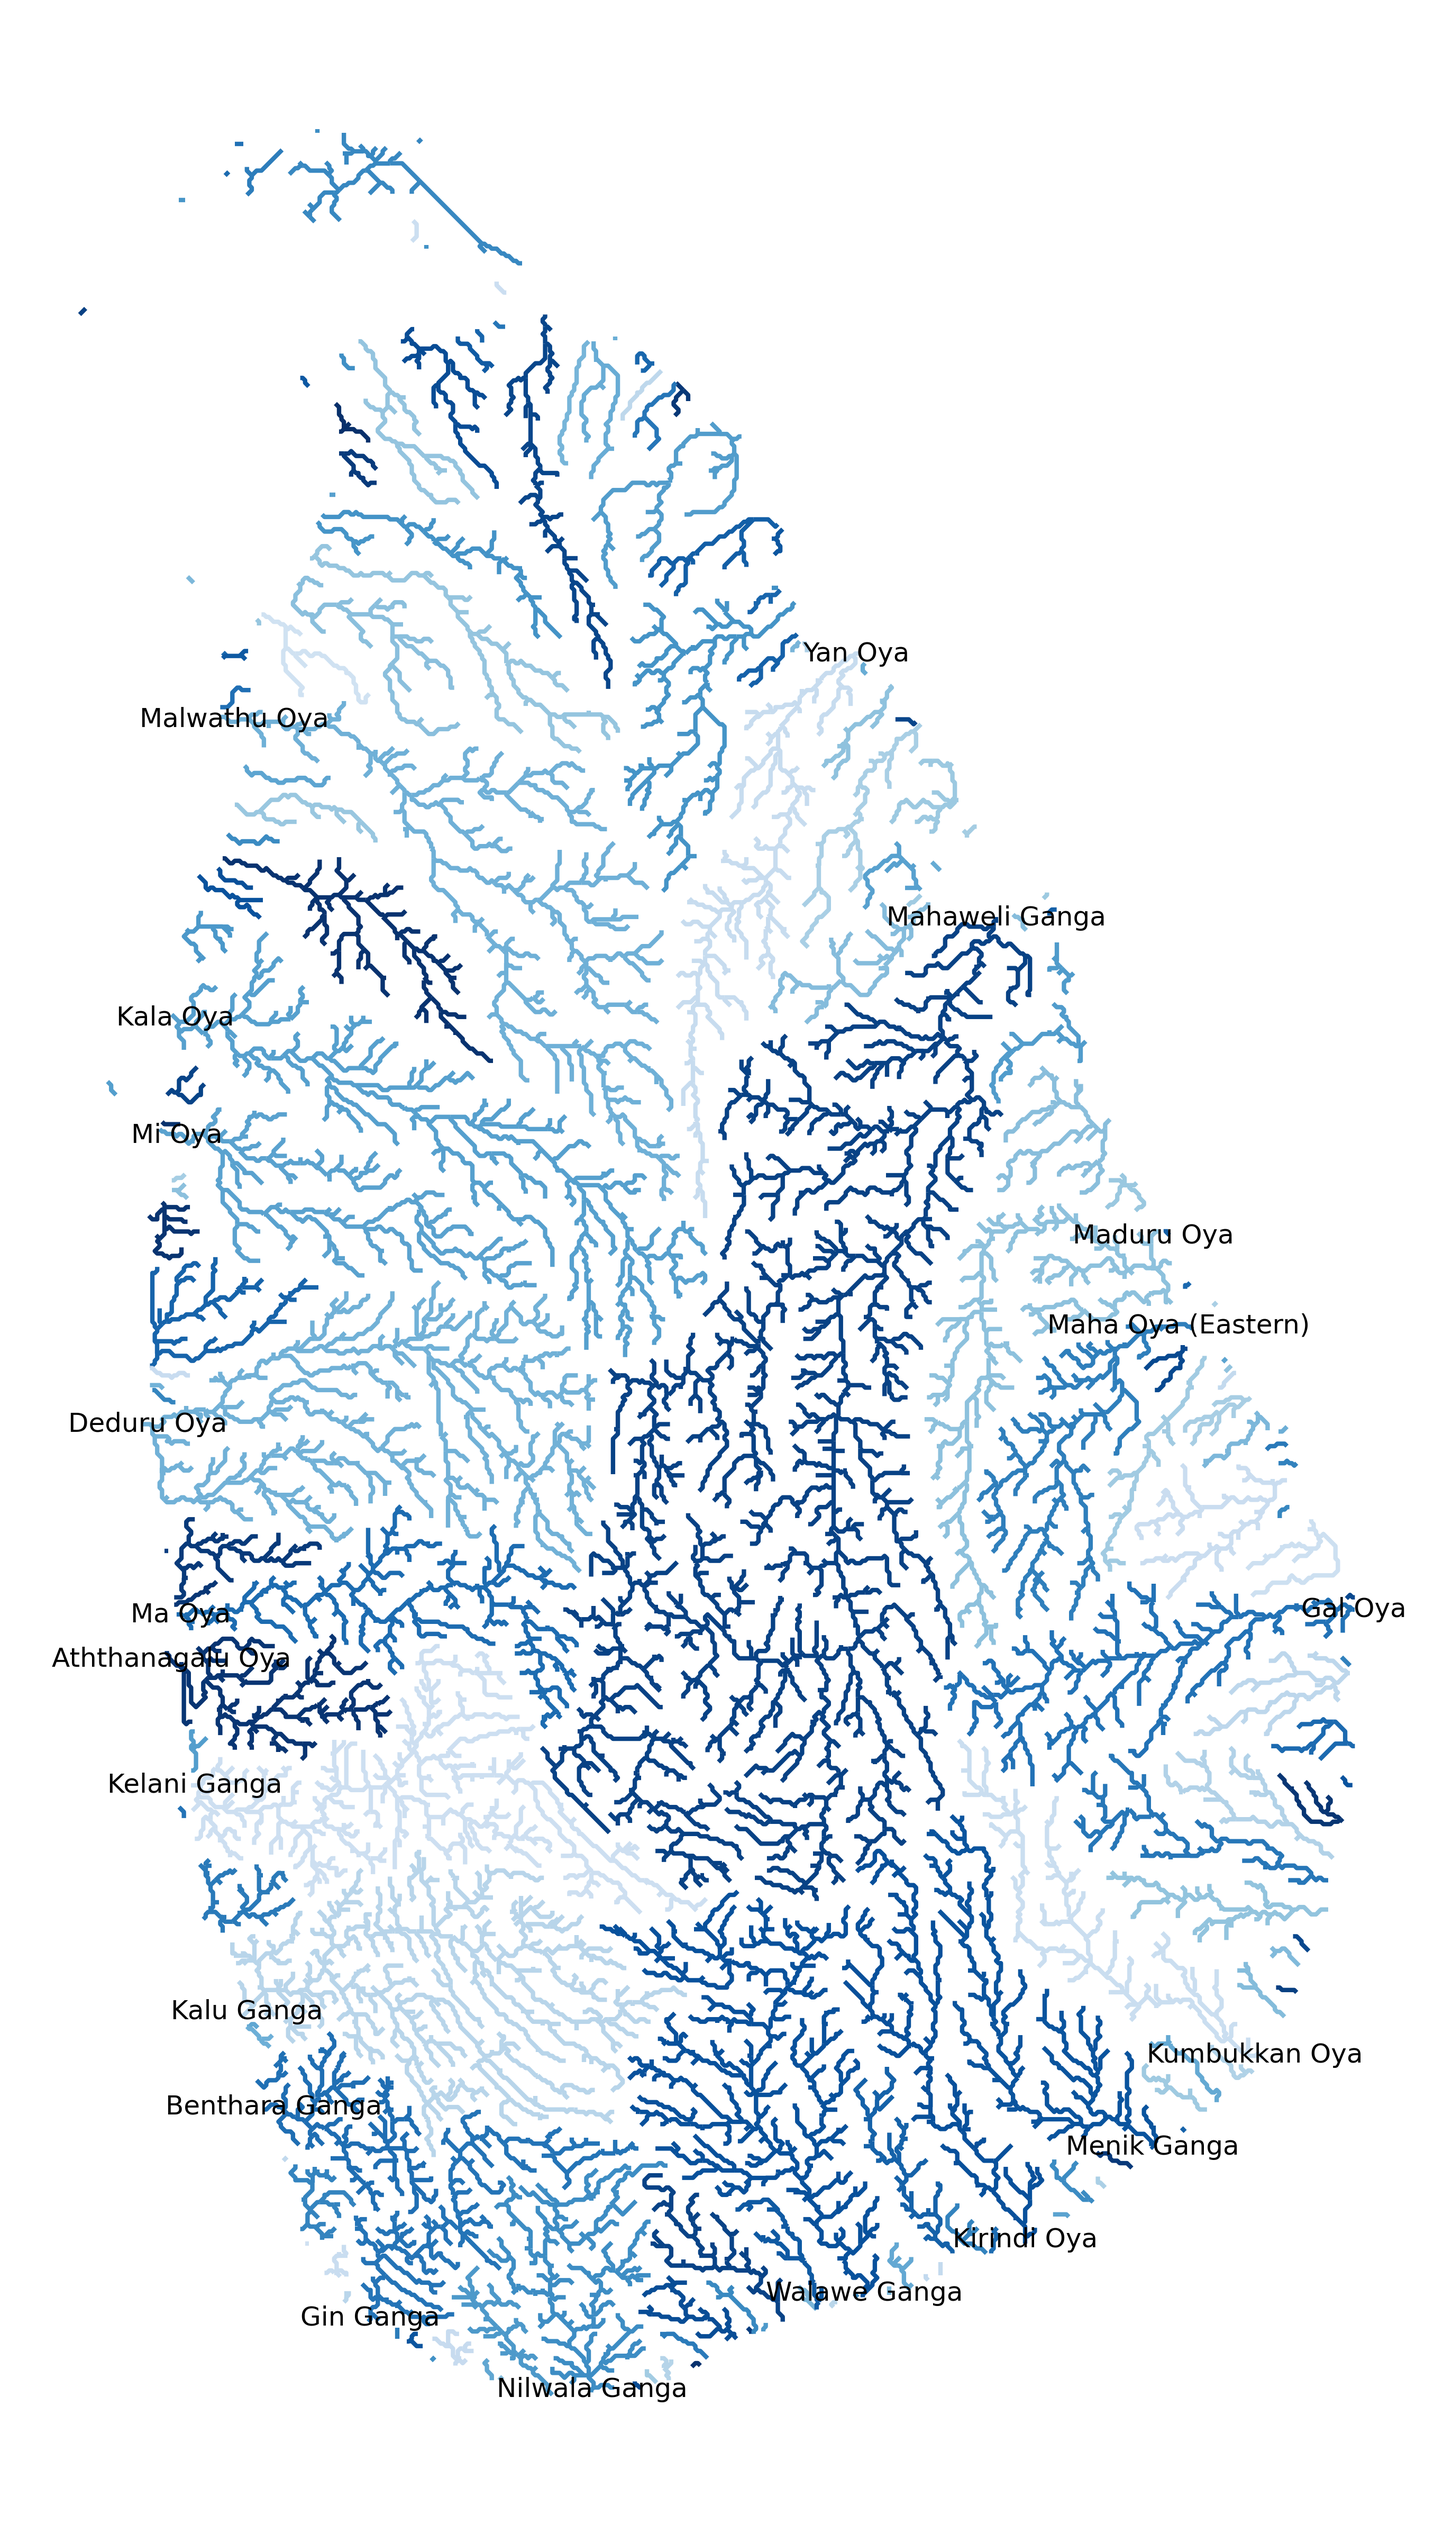
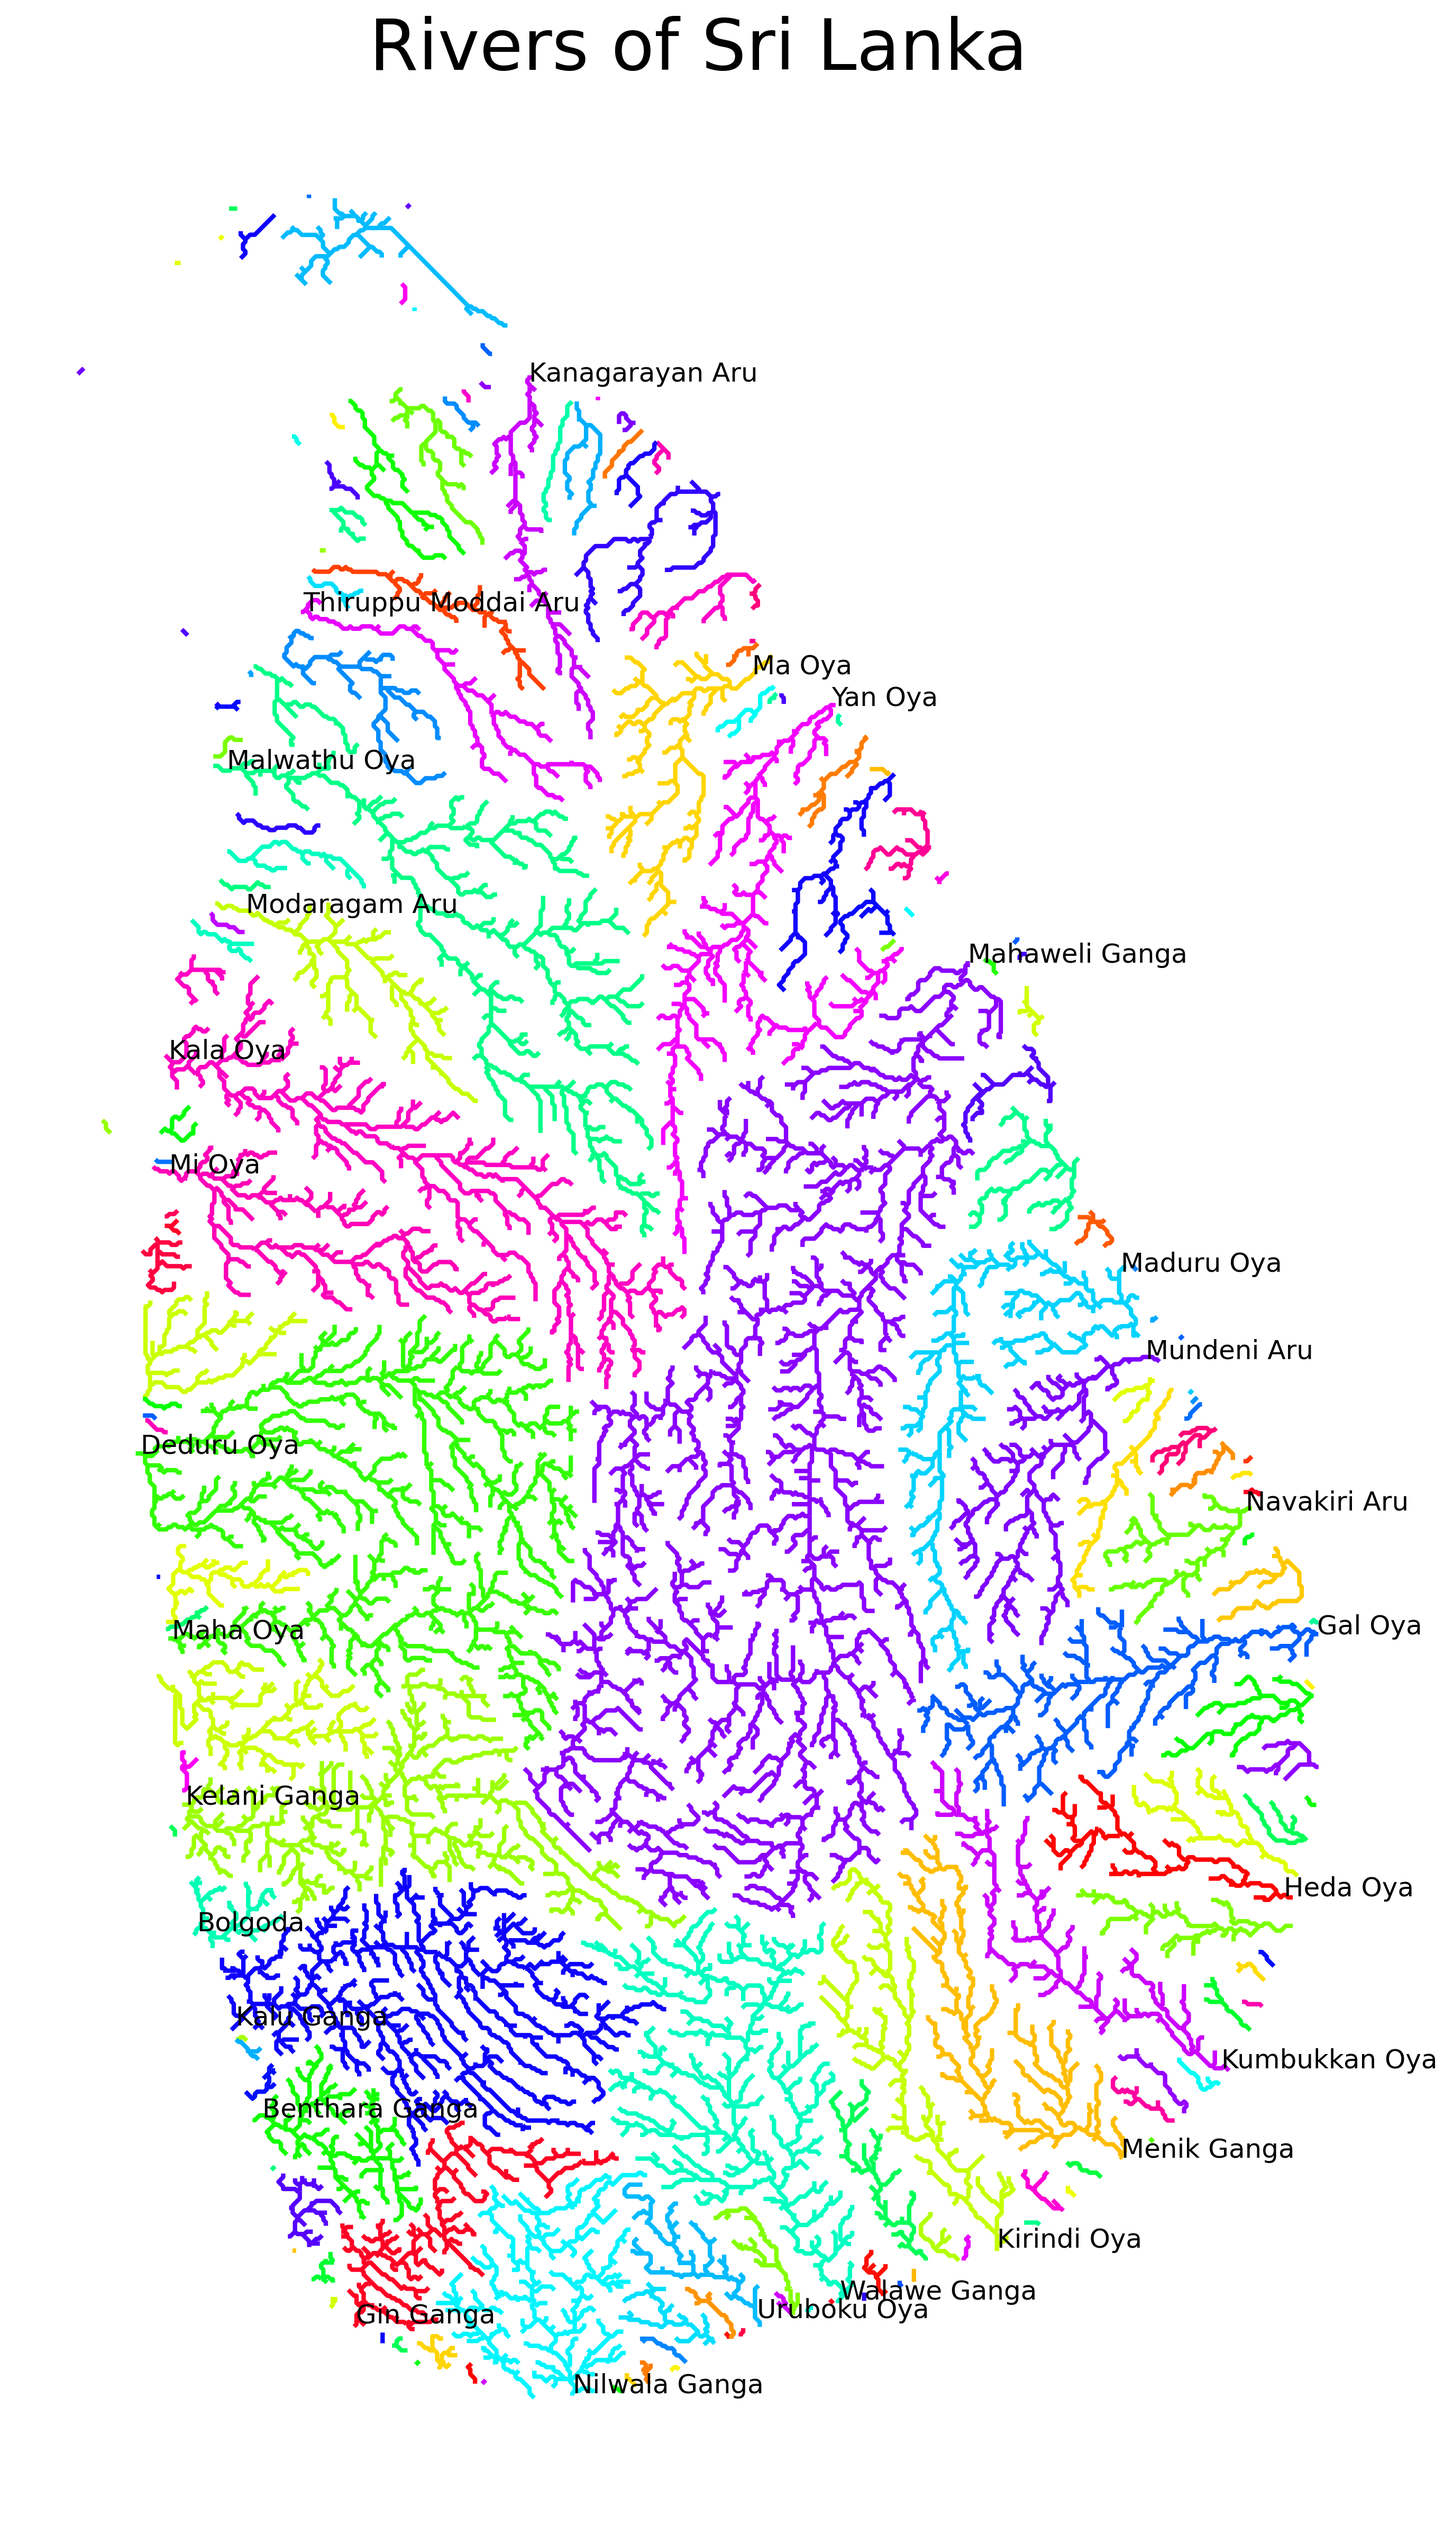
Adjust river filtering range and enhance rendering with color mapping and title

Changed region(s): [[0.093, 0.0625, 0.9915, 0.9685], [0.4338, 0.0, 0.7127, 0.0312], [0.2479, 0.0, 0.4028, 0.0312]]

diff --git a/workflows/render_rivers.py b/workflows/render_rivers.py
@@ -51,7 +51,7 @@ def filter_sri_lanka(gdf):
     lon_min, lon_max = 79.5, 82.0
     lat_min, lat_max = 5.9, 10.0
 
-    print(f"Filtering for Sri Lanka region...")
+    print("Filtering for Sri Lanka region...")  # Fixed f-string issue
 
     # Filter by bounding box
     mask = (
@@ -69,9 +69,10 @@ def filter_sri_lanka(gdf):
 
 def render_rivers(gdf, output_path=None):
     """
-    Render the rivers on a map using randomly distributed shades of blue for
-    each MAIN_RIV and annotate with river names from riv_id_to_name.json (if
-    available) at the mouth of the river (identified by NEXT_DOWN = 0).
+    Render the rivers on a map using colors proportional to their lengths,
+    highlight the longest river in the darkest blue, and annotate with river
+    names from riv_id_to_name.json (if available) at the mouth of the river
+    (identified by NEXT_DOWN = 0).
     """
     print("Rendering rivers...")
     print("GeoDataFrame columns:", gdf.columns.tolist())
@@ -85,55 +86,56 @@ def render_rivers(gdf, output_path=None):
     with open(riv_id_to_name_path, "r", encoding="utf-8") as f:
         riv_id_to_name = json.load(f)
 
-    fig, ax = plt.subplots(figsize=(12, 16))
+    fig, ax = plt.subplots(figsize=(16, 16))
 
-    # Assign a random shade of blue to each MAIN_RIV
-    if "MAIN_RIV" in gdf.columns:
-        unique_rivers = gdf["MAIN_RIV"].unique()
-        shades_of_blue = [plt.cm.Blues(i / 256) for i in range(50, 256)]
-        random.shuffle(shades_of_blue)
-        color_map = {
-            river: shades_of_blue[i % len(shades_of_blue)]
-            for i, river in enumerate(unique_rivers)
-        }
-        gdf["color"] = gdf["MAIN_RIV"].map(color_map)
+    # Reproject to a projected CRS for accurate length calculations
+    if gdf.crs.is_geographic:
+        # Shortened the long print statement
+        print("Reprojecting to a projected CRS for accurate calculations...")
+        gdf = gdf.to_crs(epsg=32644)  # UTM Zone 44N, suitable for Sri Lanka
 
-        # Plot rivers with their randomly assigned shades of blue
-        for river, group in gdf.groupby("MAIN_RIV"):
-            group.plot(
-                ax=ax,
-                linewidth=2,
-                color=color_map[river],
-                alpha=1,
-                label=str(river),
-            )
+    # Assign random colors to each river using the 'hsv' colormap
+    unique_rivers = gdf["MAIN_RIV"].unique()
+    # Corrected colormap assignment and split into multiple lines for readability
+    color_map = {
+        river: plt.cm.get_cmap("hsv")(random.random())
+        for river in unique_rivers
+    }
+    gdf["color"] = gdf["MAIN_RIV"].map(color_map)
 
-            # Annotate the map with river names (if available) at the mouth
-            river_name = riv_id_to_name.get(str(river), None)
-            if river_name:
-                # Find the row where NEXT_DOWN = 0 (mouth of the river)
-                mouth_row = group[group["NEXT_DOWN"] == 0]
-                if not mouth_row.empty:
-                    mouth_row = mouth_row.iloc[0]
-                    if mouth_row.geometry.type == "LineString":
-                        x, y = mouth_row.geometry.coords[
-                            -1
-                        ]  # Mouth of the river
-                    else:
-                        x, y = mouth_row.geometry.centroid.xy
-                        x, y = x[0], y[0]
-                    ax.text(
-                        x,
-                        y,
-                        river_name,
-                        fontsize=12,
-                        color="black",
-                        va="center",
-                        ha="center",
-                    )
-    else:
-        # Default to a single color if MAIN_RIV is not available
-        gdf.plot(ax=ax, linewidth=0.5, edgecolor="blue", alpha=0.7)
+    # Sort rivers by the order of their appearance in the dataset
+    sorted_groups = gdf.groupby("MAIN_RIV")
+
+    # Plot rivers with their length-proportional colors
+    for river, group in sorted_groups:
+        group_color = group["color"].iloc[0]
+        group.plot(
+            ax=ax,
+            linewidth=2,
+            color=group_color,
+            alpha=1,
+            label=str(river),
+        )
+
+        # Annotate the map with river names (if available) at the mouth
+        river_name = riv_id_to_name.get(str(river), None)
+        if river_name:
+            # Find the row where NEXT_DOWN = 0 (mouth of the river)
+            mouth_row = group[group["NEXT_DOWN"] == 0]
+            if not mouth_row.empty:
+                mouth_row = mouth_row.iloc[0]
+                if mouth_row.geometry.type == "LineString":
+                    x, y = mouth_row.geometry.coords[-1]  # Mouth of the river
+                else:
+                    x, y = mouth_row.geometry.centroid.xy
+                    x, y = x[0], y[0]
+                ax.text(
+                    x,
+                    y,
+                    river_name,
+                    fontsize=12,
+                    color="black",
+                )
 
     # Remove axis labels, grid, and outer border
     ax.set_xlabel("")
@@ -141,6 +143,7 @@ def render_rivers(gdf, output_path=None):
     ax.grid(False)
     ax.set_xticks([])
     ax.set_yticks([])
+    plt.title("Rivers of Sri Lanka", fontsize=32)
     for spine in ax.spines.values():
         spine.set_visible(False)
 
@@ -150,6 +153,7 @@ def render_rivers(gdf, output_path=None):
         plt.savefig(output_path, dpi=300, bbox_inches="tight")
         print(f"Saved to {output_path}")
 
+    plt.show()
     print("Done!")
 
 

diff --git a/workflows/analyse_rivers.py b/workflows/analyse_rivers.py
@@ -20,7 +20,7 @@ def main():
             key=lambda item: item[1],
             reverse=True,
         )
-    )[10:20]:
+    )[20:30]:
         print(riv_id, file_size)
         url = f"https://github.com/nuuuwan/lk_rivers/blob/main/data/rivers/{riv_id}.geojson"
         os.system(f'open "{url}"')
